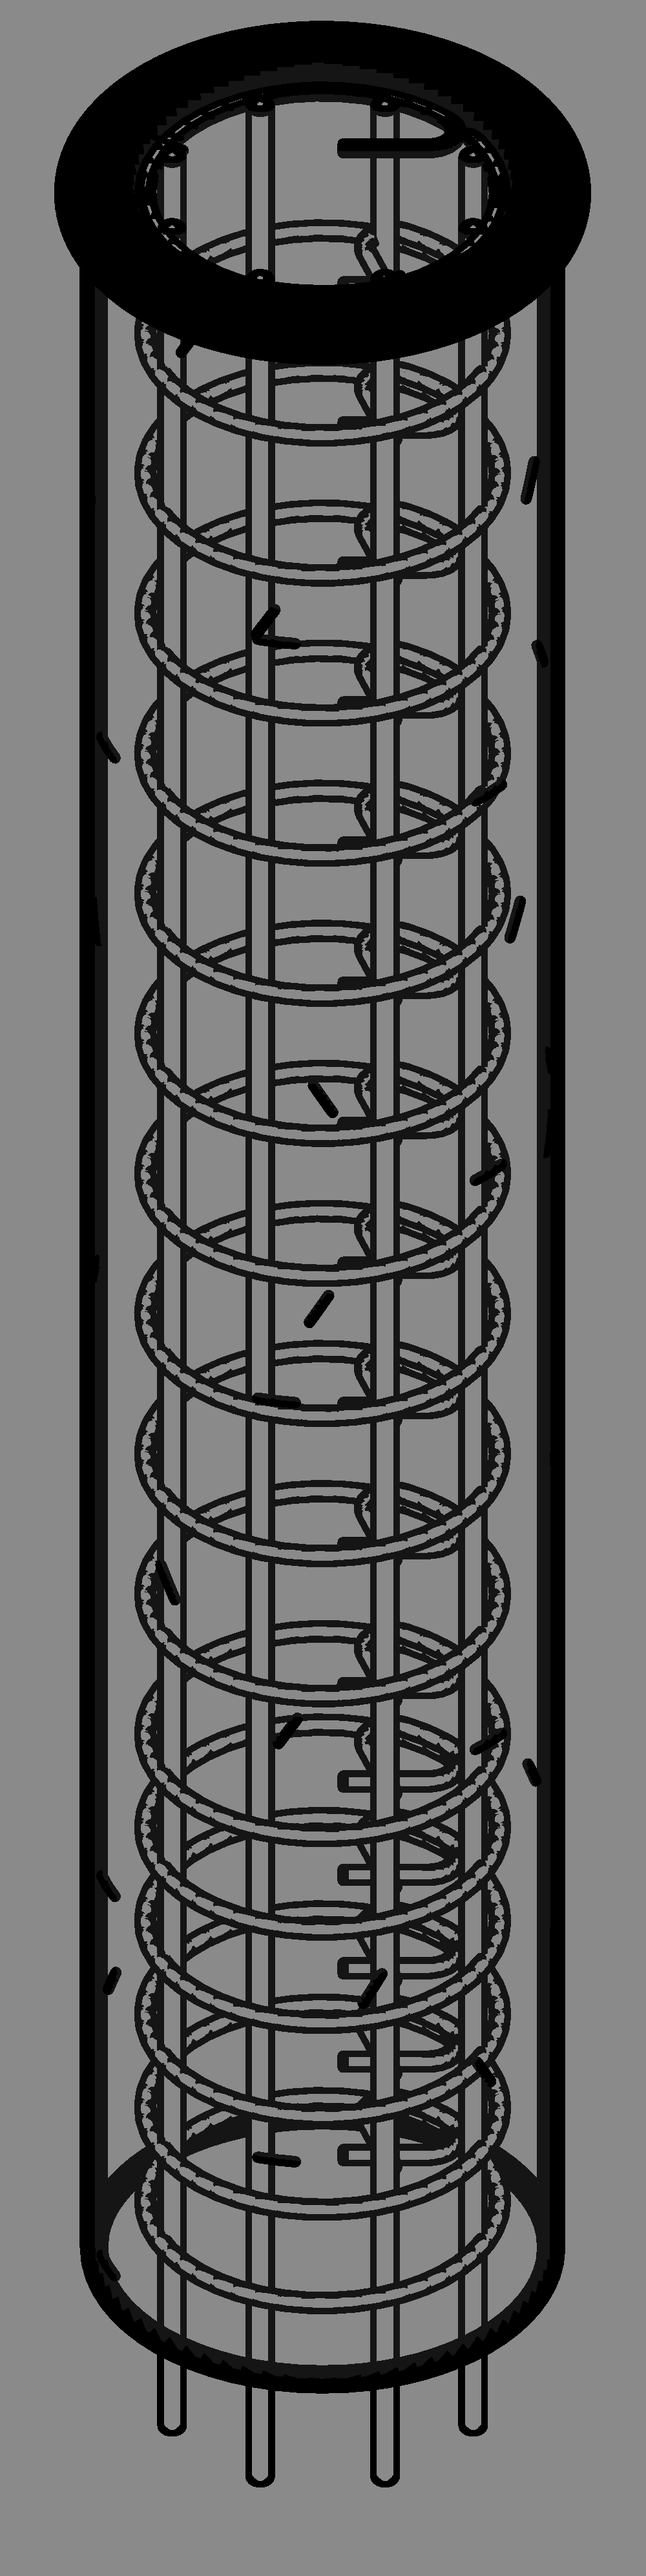
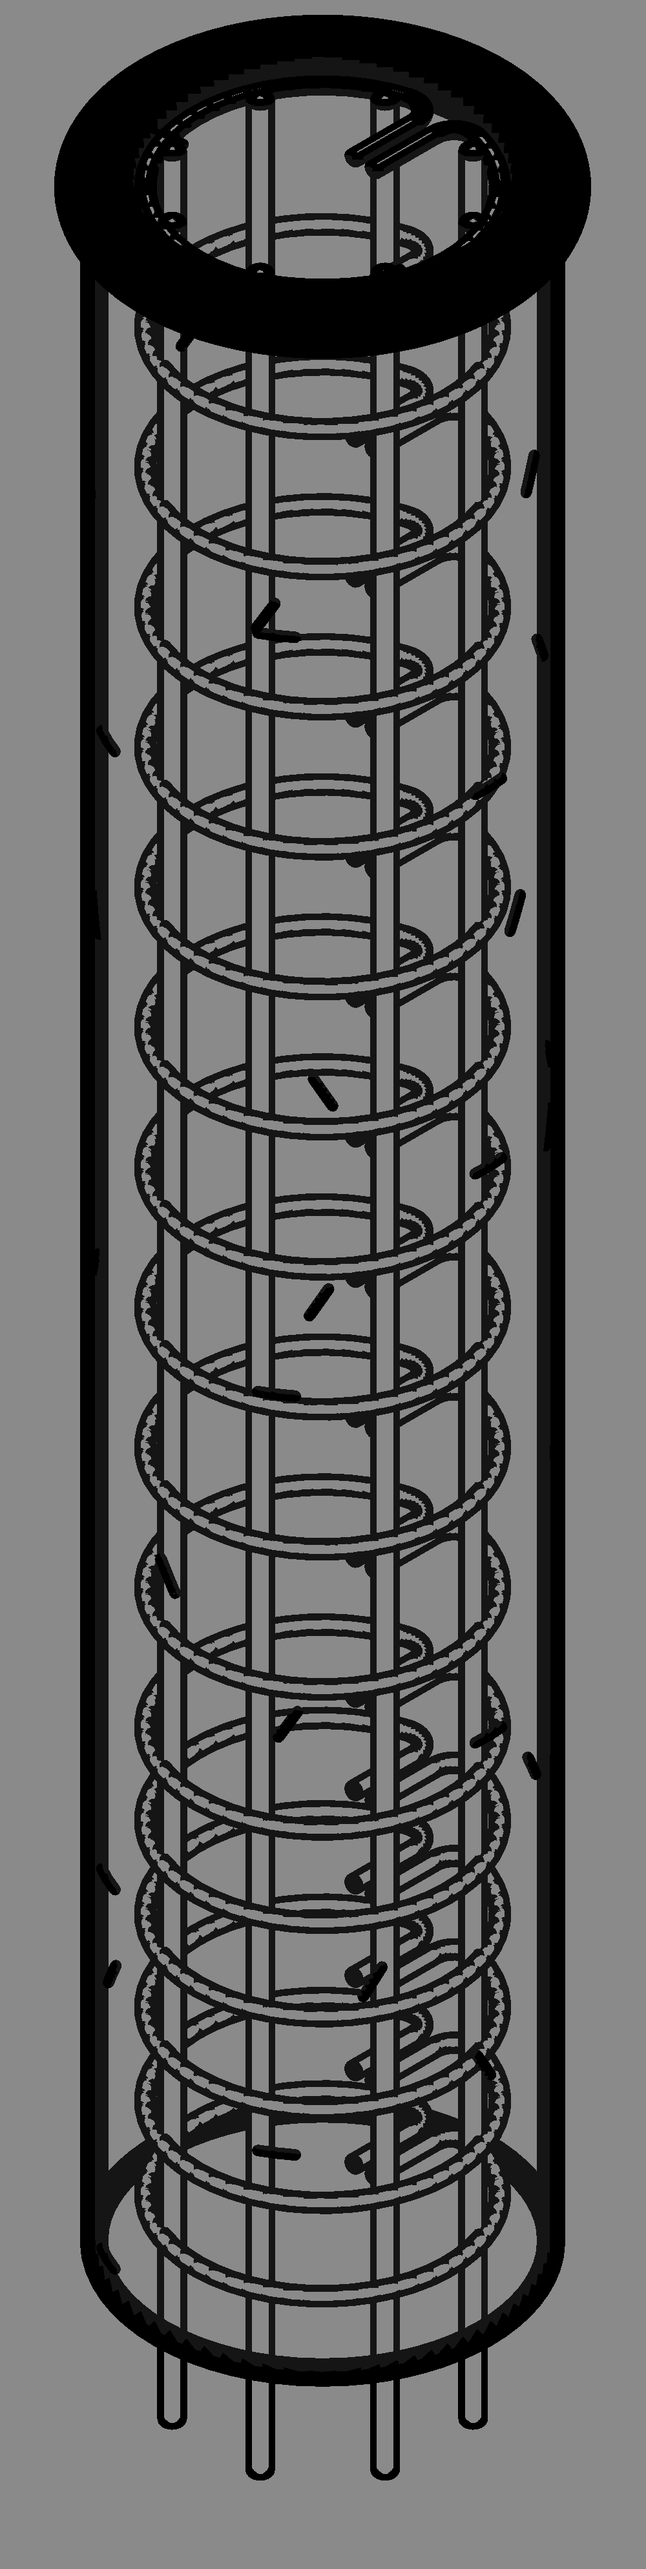
Circular hoops bent like on site: both ends turned into the core as two parallel legs side by side (no crossing)

diff --git a/revit_mcp/rebar_spec.py b/revit_mcp/rebar_spec.py
@@ -238,35 +238,41 @@ def circular_bars(radius_bars, count, key, start=None):
     return [(x, y, key) for x, y in circle_points(radius_bars, count, start)]
 
 
+def _bend_to(point, direction, sign, radius, target, steps=10):
+    """Points of a bend of `radius` starting at `point` heading `direction`,
+    turning left (sign +1) or right (-1) until it heads `target`."""
+    tx, ty = direction
+    nx, ny = (-ty, tx) if sign > 0 else (ty, -tx)
+    cx, cy = point[0] + nx * radius, point[1] + ny * radius
+    turn = (math.atan2(target[1], target[0]) - math.atan2(ty, tx)) * sign % (2 * math.pi)
+    a0 = math.atan2(point[1] - cy, point[0] - cx)
+    return [(cx + radius * math.cos(a0 + sign * turn * k / float(steps)),
+             cy + radius * math.sin(a0 + sign * turn * k / float(steps))) for k in range(1, steps + 1)]
+
+
 def hoop_path(radius, ds, hook_leg, start=math.pi / 2, steps=48):
-    """A circular hoop in plan as bent: a full turn round the core plus a
-    short overlap, both ends finishing in a closed 135-degree hook - a bend
-    of 2.5 ds radius turning into the core and a straight leg `hook_leg`.
+    """A circular hoop in plan as it is bent on site: nearly a full turn,
+    both ends at `start` bent into the core (2.5 ds bends) as two parallel
+    legs `hook_leg` long, side by side towards the centre - no crossing.
     One polyline [(x, y)], counterclockwise."""
     bend = 2.5 * ds
-    overlap = 2.0 * bend / radius  # the two hooks side by side over one bar
-    a0, a1 = start, start + 2 * math.pi + overlap
-    n = max(steps, 8)
-    arc = [(radius * math.cos(a0 + (a1 - a0) * k / float(n)), radius * math.sin(a0 + (a1 - a0) * k / float(n)))
-           for k in range(n + 1)]
+    gap = 1.5 * ds  # half the clear space between the two legs
+    delta = math.asin(min(0.9, (gap + bend + ds / 2.0) / radius))
+    a0, a1 = start + delta, start - delta + 2 * math.pi
+    arc = [(radius * math.cos(a0 + (a1 - a0) * k / float(steps)), radius * math.sin(a0 + (a1 - a0) * k / float(steps)))
+           for k in range(steps + 1)]
+    inward = (-math.cos(start), -math.sin(start))
 
-    def hook(angle, sign):
-        # at the end of the arc (sign +1, travelling counterclockwise) or at
-        # its start (sign -1, travelling back): bend 135 degrees inward
-        px, py = radius * math.cos(angle), radius * math.sin(angle)
-        tx, ty = -math.sin(angle) * sign, math.cos(angle) * sign  # travel direction
-        nx, ny = -math.cos(angle), -math.sin(angle)  # into the core
-        cx, cy = px + nx * bend, py + ny * bend  # centre of the bend
-        a_from = math.atan2(py - cy, px - cx)
-        pts = [(cx + bend * math.cos(a_from + sign * 0.75 * math.pi * k / 8.0),
-                cy + bend * math.sin(a_from + sign * 0.75 * math.pi * k / 8.0)) for k in range(1, 9)]
-        end = a_from + sign * 0.75 * math.pi
-        lx, ly = -math.sin(end) * sign, math.cos(end) * sign
+    def end(angle, sign):
+        # at the arc's end (sign +1, going counterclockwise: turns left) or
+        # its start (sign -1, going back clockwise: turns right)
+        p = (radius * math.cos(angle), radius * math.sin(angle))
+        travel = (-math.sin(angle) * sign, math.cos(angle) * sign)
+        pts = _bend_to(p, travel, sign, bend, inward)
         last = pts[-1]
-        return pts + [(last[0] + lx * hook_leg, last[1] + ly * hook_leg)]
+        return pts + [(last[0] + inward[0] * hook_leg, last[1] + inward[1] * hook_leg)]
 
-    return hook(a0, -1.0)[::-1] + arc + hook(a1, 1.0)
-
+    return end(a0, -1.0)[::-1] + arc + end(a1, 1.0)
 
 def spiral_path(radius, z_start, z_end, pitch, ds, extra_turns=SPIRAL_EXTRA_TURNS, per_turn=24):
     """A spiral as points (x, y, z) from z_start to z_end (m): `extra_turns`
